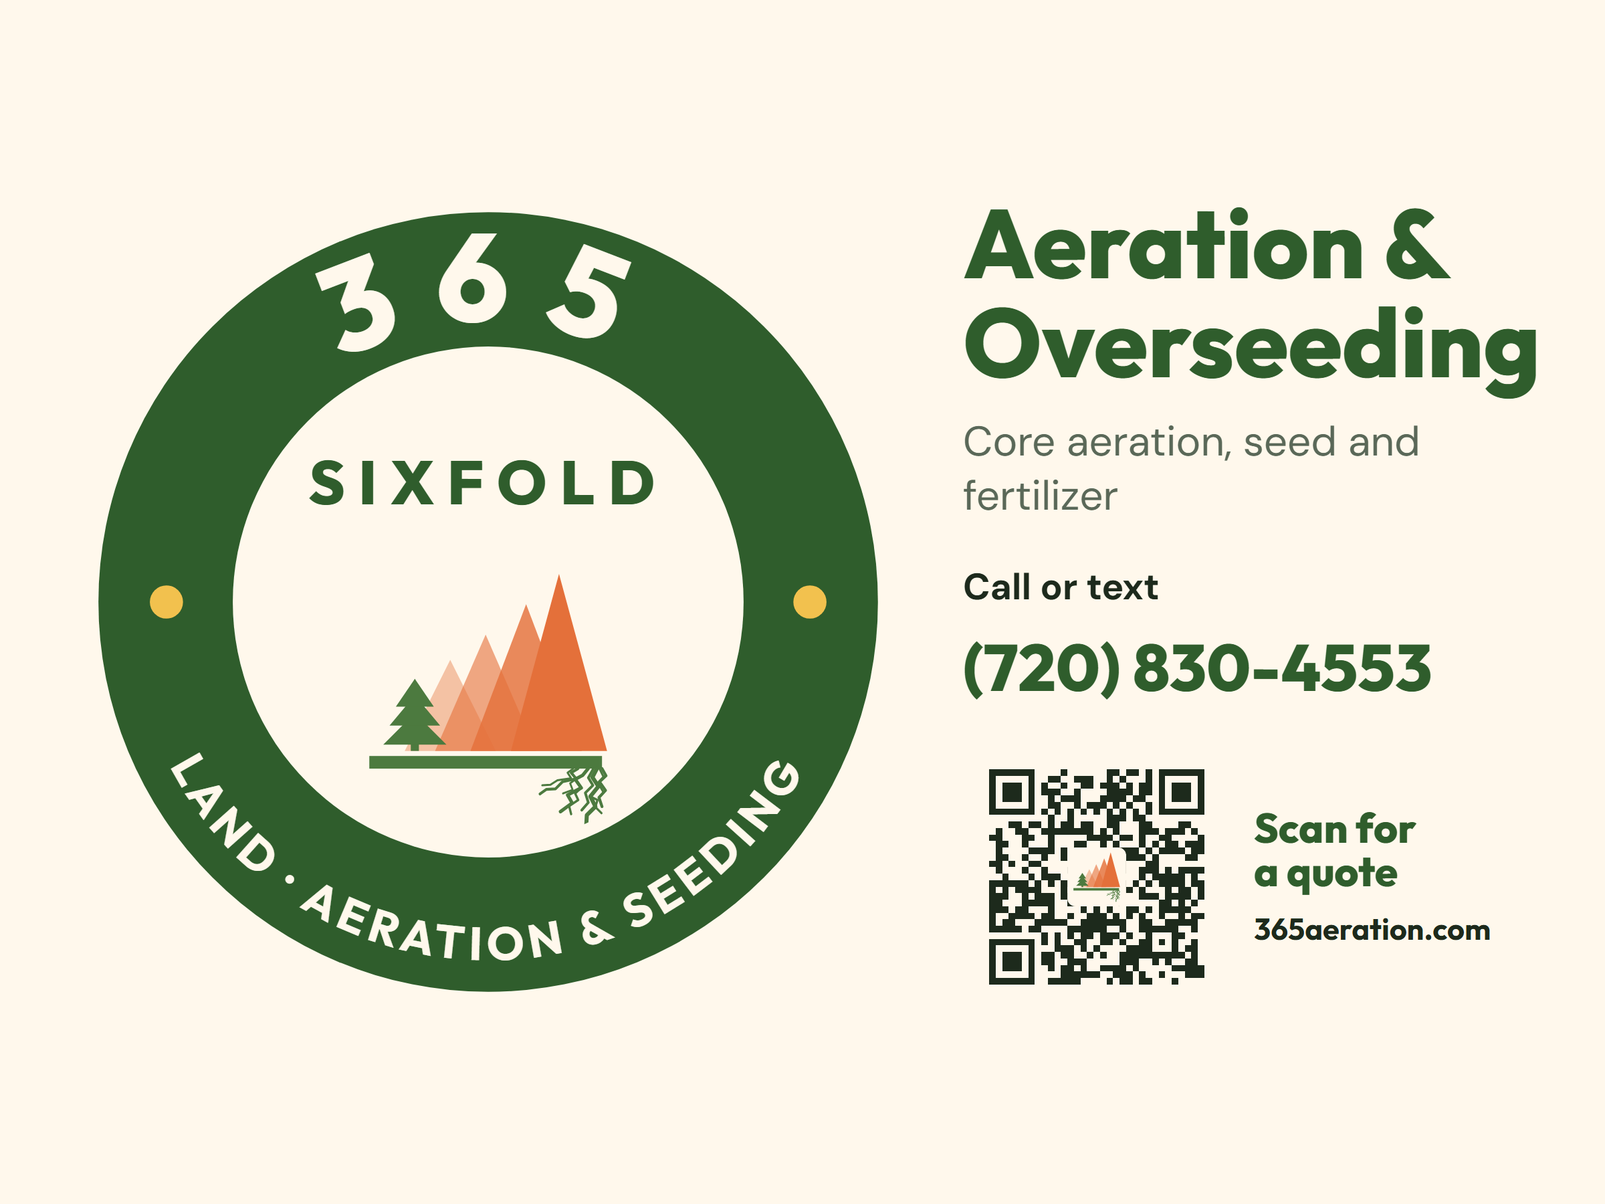
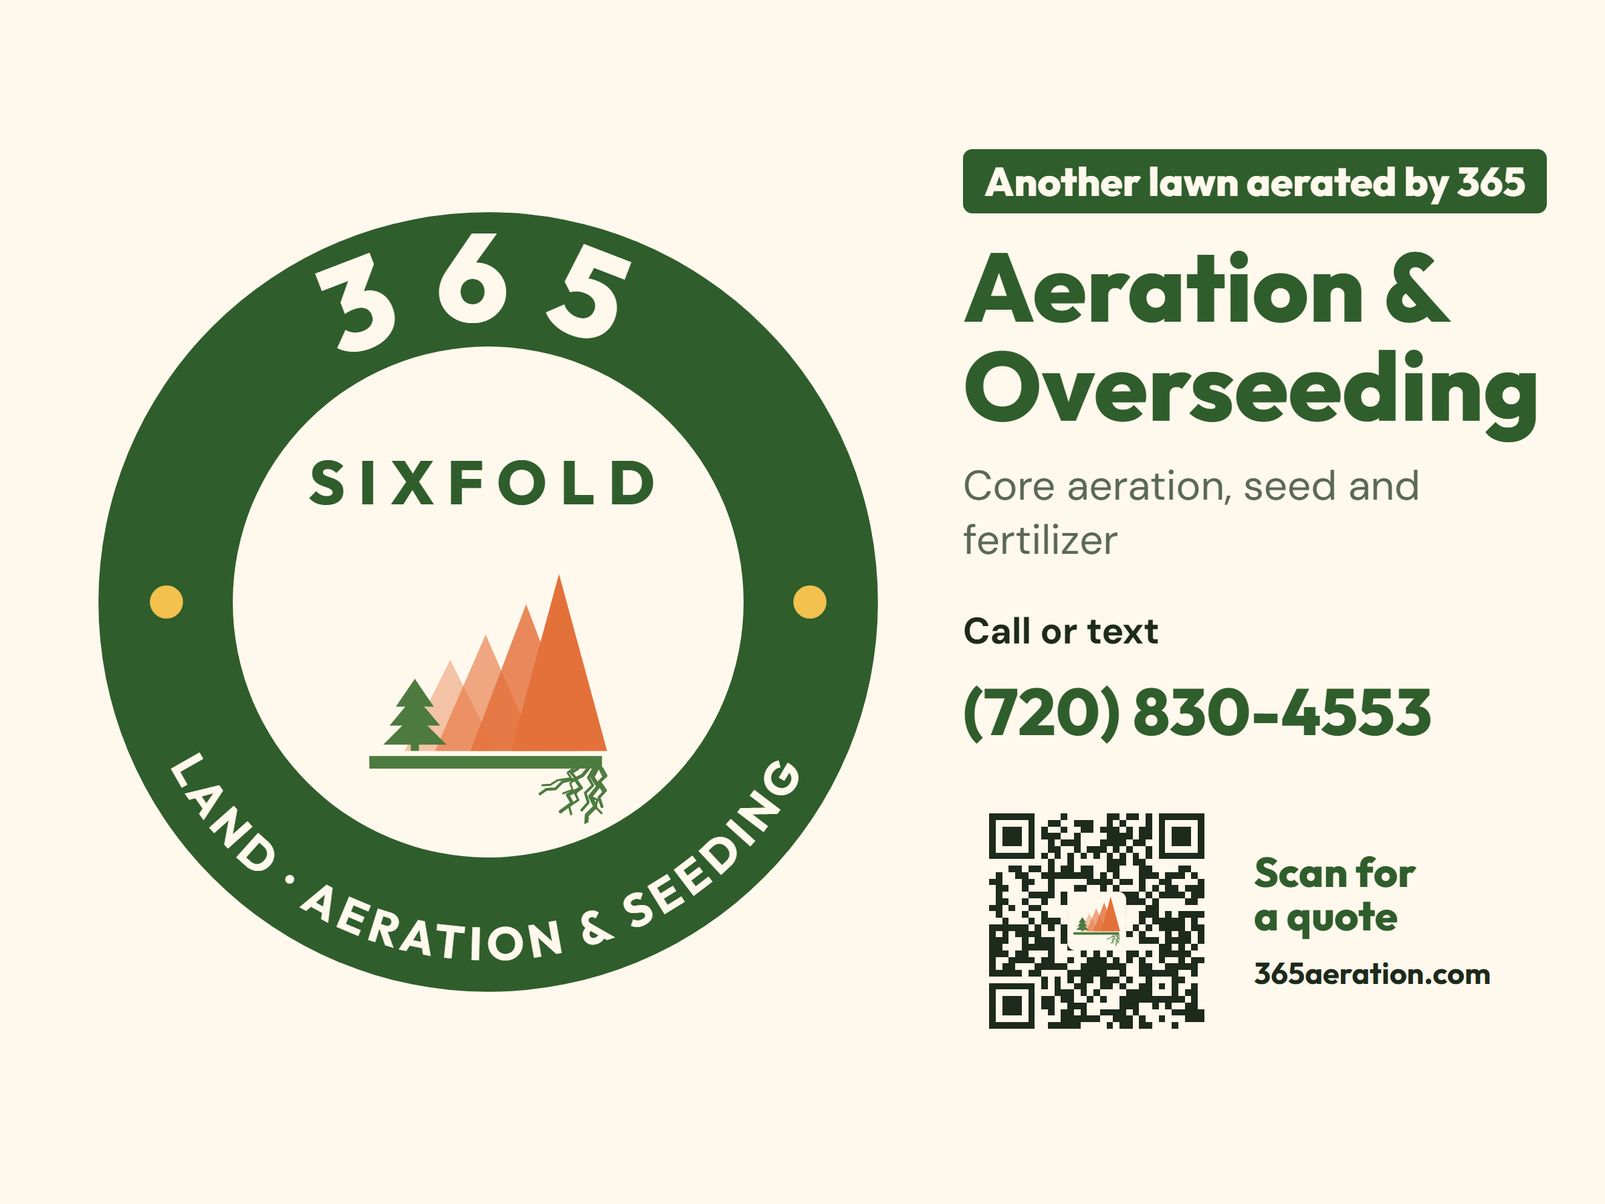
365 site footer: Facebook, Instagram and Google reviews links (Matthew 28 Oct: 'Lets go ahead and add the social footer'); text labels, 44 px taps; LIVE on 365aeration.com and aeration365.com (backups, md5 match, cache flushed, plain and busted checked). Yard signs A-C as printed (in use in the fiel

Changed region(s): [[0.5938, 0.1244, 0.9688, 0.8711], [0.7812, 0.6844, 0.9375, 0.84]]

diff --git a/sixfold/aeration365-site/index.html b/sixfold/aeration365-site/index.html
@@ -148,6 +148,11 @@
   footer svg{width:70px;height:70px}
   footer b{color:#fff;font:700 19px 'Outfit',sans-serif}
   footer a{color:#fff}
+  /* where to find us (2026-10-28, Matthew: "add the social footer"): text labels, 44 px taps, icons drawn in the text colour */
+  footer .soc{order:3;display:flex;gap:6px 20px;flex-wrap:wrap;width:100%;padding-top:14px;border-top:1px solid rgba(255,255,255,.18)}
+  footer .soc a{display:inline-flex;align-items:center;gap:8px;min-height:44px;text-decoration:none;font-weight:500}
+  footer .soc a:hover,footer .soc a:focus-visible{text-decoration:underline}
+  footer .soc svg{width:22px;height:22px;fill:currentColor;flex:none}
 
   @media (max-width:900px){
     nav{display:none}
@@ -340,6 +345,11 @@
 
 <footer><div class="wrap">
   <div class="fb"><svg aria-hidden="true"><use href="#badge"/></svg><div><b>Sixfold 365</b><br>Land · Aeration &amp; Seeding</div></div>
+  <nav class="soc" aria-label="Sixfold 365 online">
+    <a href="https://www.facebook.com/1418675127985724" target="_blank" rel="noopener"><svg viewBox="0 0 24 24" aria-hidden="true"><path d="M13.5 22v-8h2.7l.4-3.2h-3.1V8.8c0-.9.3-1.5 1.6-1.5h1.7V4.4c-.3 0-1.3-.1-2.5-.1-2.5 0-4.2 1.5-4.2 4.3v2.3H7.4V14h2.7v8z"/></svg>Facebook</a>
+    <a href="https://www.instagram.com/365aeration/" target="_blank" rel="noopener"><svg viewBox="0 0 24 24" aria-hidden="true"><path d="M12 7.2a4.8 4.8 0 1 0 0 9.6 4.8 4.8 0 0 0 0-9.6zm0 7.9a3.1 3.1 0 1 1 0-6.2 3.1 3.1 0 0 1 0 6.2zM17.1 5.8a1.1 1.1 0 1 0 0 2.2 1.1 1.1 0 0 0 0-2.2zM12 3.6c2.7 0 3 0 4.1.1 2.8.1 4.1 1.4 4.2 4.2.1 1.1.1 1.4.1 4.1s0 3-.1 4.1c-.1 2.8-1.4 4.1-4.2 4.2-1.1.1-1.4.1-4.1.1s-3 0-4.1-.1C5 20.2 3.8 18.9 3.7 16.1 3.6 15 3.6 14.7 3.6 12s0-3 .1-4.1C3.8 5.1 5.1 3.8 7.9 3.7 9 3.6 9.3 3.6 12 3.6zM12 2C9.3 2 8.9 2 7.8 2.1 4 2.2 2.2 4 2.1 7.8 2 8.9 2 9.3 2 12s0 3.1.1 4.2C2.2 20 4 21.8 7.8 21.9c1.1.1 1.5.1 4.2.1s3.1 0 4.2-.1c3.8-.1 5.6-1.9 5.7-5.7.1-1.1.1-1.5.1-4.2s0-3.1-.1-4.2C21.8 4 20 2.2 16.2 2.1 15.1 2 14.7 2 12 2z"/></svg>Instagram</a>
+    <a href="https://g.page/r/CdxyzSzq9tvEEBM" target="_blank" rel="noopener"><svg viewBox="0 0 24 24" aria-hidden="true"><path d="M12 2.5l2.9 6 6.6.9-4.8 4.6 1.2 6.5L12 17.4l-5.9 3.1 1.2-6.5-4.8-4.6 6.6-.9z"/></svg>Google reviews</a>
+  </nav>
   <div><a href="tel:+17208304553">(720) 830-4553</a> · <a href="mailto:contact@365aeration.com">contact@365aeration.com</a><br><span style="font-size:13px">© <span id="yr">2026</span> Sixfold 365 · Not tax or insurance advice: confirm your own position with your accountant and your carrier.</span></div>
 </div></footer>
 

diff --git a/sixfold/brand/combined-365-2026-10/print/yard-sign-a.html b/sixfold/brand/combined-365-2026-10/print/yard-sign-a.html
@@ -36,7 +36,8 @@
   <text font-family="Outfit, 'DM Sans', sans-serif" font-weight="700" font-size="56" letter-spacing="7" fill="#FFF8EC"><textPath href="#bot-au1" startOffset="50%" text-anchor="middle">LAND · AERATION &amp; SEEDING</textPath></text>
 </svg></div>
   <div style="flex:1;display:flex;flex-direction:column;gap:35px">
-    <div class="o" style="font-weight:800;font-size:145px;line-height:1.02;color:#2F5D2C">Aeration &amp;<br>Overseeding</div>
+    <div class="o" style="align-self:flex-start;font-weight:800;font-size:60px;line-height:1;padding:18px 32px;border-radius:14.000000000000002px;background:#2F5D2C;color:#FFF8EC;white-space:nowrap">Another lawn aerated by 365</div>   <!-- 2026-10-18, Matthew: say why the sign is in this yard -->
+    <div class="o" style="font-weight:800;font-size:145px;line-height:1.02;color:#2F5D2C;white-space:nowrap">Aeration &amp;<br>Overseeding</div>
     <div style="font-size:62px;color:#5a6858">Core aeration, seed and fertilizer</div>
     <div style="margin-top:25px;font-size:55.00000000000001px;font-weight:700">Call or text</div>
     <div class="o" style="font-weight:800;font-size:98px;line-height:1;color:#2F5D2C;white-space:nowrap">(720) 830-4553</div>

diff --git a/sixfold/brand/combined-365-2026-10/print/yard-sign-b.html b/sixfold/brand/combined-365-2026-10/print/yard-sign-b.html
@@ -36,7 +36,8 @@
   <text font-family="Outfit, 'DM Sans', sans-serif" font-weight="700" font-size="56" letter-spacing="7" fill="#E4703A"><textPath href="#bot-bu5" startOffset="50%" text-anchor="middle">LAND · AERATION &amp; SEEDING</textPath></text>
 </svg></div>
   <div style="flex:1;display:flex;flex-direction:column;gap:35px">
-    <div class="o" style="font-weight:800;font-size:145px;line-height:1.02;color:#E4703A">Aeration &amp;<br>Overseeding</div>
+    <div class="o" style="align-self:flex-start;font-weight:800;font-size:60px;line-height:1;padding:18px 32px;border-radius:14.000000000000002px;background:#E4703A;color:#0E1512;white-space:nowrap">Another lawn aerated by 365</div>   <!-- 2026-10-18, Matthew: say why the sign is in this yard -->
+    <div class="o" style="font-weight:800;font-size:145px;line-height:1.02;color:#E4703A;white-space:nowrap">Aeration &amp;<br>Overseeding</div>
     <div style="font-size:62px;color:#a9b3a7">Core aeration, seed and fertilizer</div>
     <div style="margin-top:25px;font-size:55.00000000000001px;font-weight:700">Call or text</div>
     <div class="o" style="font-weight:800;font-size:98px;line-height:1;color:#E4703A;white-space:nowrap">(720) 830-4553</div>

diff --git a/sixfold/brand/combined-365-2026-10/print/yard-sign-c.html b/sixfold/brand/combined-365-2026-10/print/yard-sign-c.html
@@ -36,7 +36,8 @@
   <text font-family="Outfit, 'DM Sans', sans-serif" font-weight="700" font-size="56" letter-spacing="7" fill="#2F5D2C"><textPath href="#bot-cu9" startOffset="50%" text-anchor="middle">LAND · AERATION &amp; SEEDING</textPath></text>
 </svg></div>
   <div style="flex:1;display:flex;flex-direction:column;gap:35px">
-    <div class="o" style="font-weight:800;font-size:145px;line-height:1.02;color:#2F5D2C">Aeration &amp;<br>Overseeding</div>
+    <div class="o" style="align-self:flex-start;font-weight:800;font-size:60px;line-height:1;padding:18px 32px;border-radius:14.000000000000002px;background:#2F5D2C;color:#EDE7DC;white-space:nowrap">Another lawn aerated by 365</div>   <!-- 2026-10-18, Matthew: say why the sign is in this yard -->
+    <div class="o" style="font-weight:800;font-size:145px;line-height:1.02;color:#2F5D2C;white-space:nowrap">Aeration &amp;<br>Overseeding</div>
     <div style="font-size:62px;color:#5a6858">Core aeration, seed and fertilizer</div>
     <div style="margin-top:25px;font-size:55.00000000000001px;font-weight:700">Call or text</div>
     <div class="o" style="font-weight:800;font-size:98px;line-height:1;color:#E4703A;white-space:nowrap">(720) 830-4553</div>

diff --git a/TASKS.md b/TASKS.md
@@ -836,10 +836,10 @@ possible, and right now nobody could list those accounts from memory. That's X-1
 - [ ] **SX-64 — 365 QR link pages: build BEFORE the print is handed out (16 Oct).** Matthew: "before i give any of it out we can build out each form". The printed codes go to 365aeration.com/card, /yard, /truck, /car (live since 16 Oct: `api/go.php` forwards to the homepage `?from=<piece>` and counts each scan, time + piece only, in `~/www/aeration365.com/scan-log/scans.csv`, outside public_html). To do: a Linktree-style page per address (quote button on top and biggest, then call, text, Facebook; reviews only once a review profile exists), the piece carried into the lead so Jen's Pipeline shows "from: truck" etc. /sign is the agreement page, never reuse it. Print files: sixfold/brand/combined-365-2026-10/build-print.mjs. **2026-10-19: the four link pages are LIVE** (sixfold/aeration365-site/api/go.php): quote, call, text, website; scans counted; web leads keep qr: card|yard|truck|car. **Still to do:** the Facebook page link and, once it exists, a Google review link (both go in  at the top of go.php; their buttons appear by themselves), and whether Jen's Pipeline should show "from: business card" on a lead (her view, so Matthew's call).
 - [x] **SX-65 — Crew quick quote + Send to office — DONE 21 Oct (live).** Christian and Bria have "Quick quote" (Accounts button on crew accounts): price a lawn on the spot, a yes goes to the office as quoted + said yes in person. Aerate, seed & feed only (aerate-only has no price rule).
 - [x] **SX-66 — Recall, the 3rd-call notice, Couldn't reach — DONE 21 Oct (live).** Leads that come back (form, Facebook, Messenger, crew yes, added again, ClickUp change) return by themselves. Quoted, ready to book shows five at a time.
-- [ ] **SX-71 — Merge everything to Sixfold 365 (Matthew 23 Oct: "get rid of the sixfold stuff, get rid of the aeration 365 stuff and just transition entirely to the new branding").** Decided 23 Oct: **one phone, (720) 830-4553 (Jen's: she handles intake)** everywhere online; **contact@365aeration.com is the public email**; **website form leads go to Matthew only: in the app (hidden from Jen) and by email to Contact@SixfoldColorado.com, his private inbox** (live 23 Oct, queued and sent by the 5-minute job; needs the SX-63 app password to actually send); Sixfold's extra pages (services, funding, guides) **held** for later, the homepage stays one simple page aimed at the form; social links go in the footer once the accounts are merged. Legal / trade-name items are not part of this list (Matthew). **Phase 1 (site) — LIVE 23 Oct** on 365aeration.com + aeration365.com (www too), both copies byte-identical to sixfold/aeration365-site/index.html + img/; backups ~/upload-backups/before-sixfold365-launch-*-20261023.tgz on the 365 account; form relay checked; Facebook re-scraped both addresses (new title + share picture). Was: the one-page merged design (`sixfold/site-merged-example/`) has the working form (same relay as the 365 site; service groups lawnall / land / multiple / question; way to reach them; how they heard; address optional; QR source) and is on a private preview at https://365aeration.com/s365-new-7571c6/ (noindex). The app accepts the new service groups (live). The agreement, quote and QR pages were already Sixfold 365 since 21 Oct; the QR page's wording updated (live, both copies). **Open before launch:** a Sixfold 365 share image; the SX-63 app password so the lead emails send. (Website leads stay Matthew-only: decided 23 Oct.) Then launch on both copies (365aeration.com + aeration365.com) on his go. **Phase 2 — DONE 23 Oct except Search Console:** aeration365.com already forwarded everything to 365aeration.com (since 14 Oct). sixfoldcolorado.com now forwards every page (301) to the matching section (aeration #lawn, landscaping/clearing #land, fire/who-pays/wildfire-guide #fire, contact #quote, rest to the homepage); the old field-app addresses go to traverseplatforms.com; api/ and .well-known left alone (sixfold/site/.htaccess, server backup .htaccess.pre-365-20261023). **Search Console DONE 23 Oct** (Contact@SixfoldColorado.com account): both properties verified (365aeration.com by HTML file google68855123f21a06fc.html, keep it; sixfoldcolorado.com auto-verified via Workspace) and the change of address sixfoldcolorado.com → 365aeration.com validated by Matthew. **Phase 2 complete.** **Phase 3 — DONE 23 Oct:** app already all Sixfold 365 (company + a365 name); agreement/quote pages carry the badge; Square location renamed + new logos (statement name: check on the next card payment, expect SQ *SIXFOLD 365). **The app's customer emails (signed copy, aftercare) stay MANUAL** — Matthew: an app password needs 2-step on the account behind contact@365aeration.com, which would disrupt Jen's access; don't push it. Still-used templates rebranded (65589be); outdated ones archived to sixfold/_archive-2026-10-23-rebrand/ with a README; signed documents untouched. Team share rebuilt: Matthew drags sixfold/team-share/files/* into the Drive folder. **Phase 4:** Google Business Profile (rename the kept one, close the other), Facebook rename then merge (between ad runs), Instagram, Nextdoor, Yelp, Linktree, footer socials, signs/magnets/cards.
+- [ ] **SX-71 — Merge everything to Sixfold 365 (Matthew 23 Oct: "get rid of the sixfold stuff, get rid of the aeration 365 stuff and just transition entirely to the new branding").** Decided 23 Oct: **one phone, (720) 830-4553 (Jen's: she handles intake)** everywhere online; **contact@365aeration.com is the public email**; **website form leads go to Matthew only: in the app (hidden from Jen) and by email to Contact@SixfoldColorado.com, his private inbox** (live 23 Oct, queued and sent by the 5-minute job; needs the SX-63 app password to actually send); Sixfold's extra pages (services, funding, guides) **held** for later, the homepage stays one simple page aimed at the form; social links go in the footer once the accounts are merged. Legal / trade-name items are not part of this list (Matthew). **Phase 1 (site) — LIVE 23 Oct** on 365aeration.com + aeration365.com (www too), both copies byte-identical to sixfold/aeration365-site/index.html + img/; backups ~/upload-backups/before-sixfold365-launch-*-20261023.tgz on the 365 account; form relay checked; Facebook re-scraped both addresses (new title + share picture). Was: the one-page merged design (`sixfold/site-merged-example/`) has the working form (same relay as the 365 site; service groups lawnall / land / multiple / question; way to reach them; how they heard; address optional; QR source) and is on a private preview at https://365aeration.com/s365-new-7571c6/ (noindex). The app accepts the new service groups (live). The agreement, quote and QR pages were already Sixfold 365 since 21 Oct; the QR page's wording updated (live, both copies). **Open before launch:** a Sixfold 365 share image; the SX-63 app password so the lead emails send. (Website leads stay Matthew-only: decided 23 Oct.) Then launch on both copies (365aeration.com + aeration365.com) on his go. **Phase 2 — DONE 23 Oct except Search Console:** aeration365.com already forwarded everything to 365aeration.com (since 14 Oct). sixfoldcolorado.com now forwards every page (301) to the matching section (aeration #lawn, landscaping/clearing #land, fire/who-pays/wildfire-guide #fire, contact #quote, rest to the homepage); the old field-app addresses go to traverseplatforms.com; api/ and .well-known left alone (sixfold/site/.htaccess, server backup .htaccess.pre-365-20261023). **Search Console DONE 23 Oct** (Contact@SixfoldColorado.com account): both properties verified (365aeration.com by HTML file google68855123f21a06fc.html, keep it; sixfoldcolorado.com auto-verified via Workspace) and the change of address sixfoldcolorado.com → 365aeration.com validated by Matthew. **Phase 2 complete.** **Phase 3 — DONE 23 Oct:** app already all Sixfold 365 (company + a365 name); agreement/quote pages carry the badge; Square location renamed + new logos (statement name: check on the next card payment, expect SQ *SIXFOLD 365). **The app's customer emails (signed copy, aftercare) stay MANUAL** — Matthew: an app password needs 2-step on the account behind contact@365aeration.com, which would disrupt Jen's access; don't push it. Still-used templates rebranded (65589be); outdated ones archived to sixfold/_archive-2026-10-23-rebrand/ with a README; signed documents untouched. Team share rebuilt: Matthew drags sixfold/team-share/files/* into the Drive folder. **Phase 4:** Google Business Profile (rename the kept one, close the other), Facebook rename then merge (between ad runs), Instagram, Nextdoor, Yelp, Linktree, footer socials, signs/magnets/cards. **28 Oct (Matthew):** Google profile converted to Sixfold 365 (he believes; he wants me connected to monitor it, see below); Facebook merge did NOT happen (errored 23 Oct, old Sixfold Colorado page deleted; the Sixfold 365 page, id 1418675127985724, has no username yet); Nextdoor merged ✅; yard signs printed and in use in the field ✅; business cards ✅; **magnets stay open**; **footer socials LIVE 28 Oct** (Facebook, Instagram @365aeration, Google reviews; 44 px taps; both copies, md5 ca79b0ab…, cache flushed, plain + busted checked); Nextdoor link to add when Matthew sends the page address. Still open: magnets, Yelp, Linktree, a Facebook username, Nextdoor footer link, Google profile monitoring.
 - [x] **SX-72 — Matthew: check who has ever signed in to Contact@SixfoldColorado.com (23 Oct). ANSWERED same day: only Matthew has access. It stays, as HIS private inbox for website leads (the form emails it; Jen never sees it). Not scrapped.** He thinks Brad and Brandon never have; if so they come off the plan and the address can go. Before scrapping it: it is the Sixfold Google Workspace **super admin** account and the sender of the morning email and the Sixfold site form's copies (SX-63), so those move to the 365 mailbox first.
 - [ ] **SX-73 — Matthew: update your email signature to Sixfold 365 (23 Oct).** In Gmail for M.Sharpe@SixfoldColorado.com (the address on your 365 card): gear → See all settings → General → Signature → name Sixfold 365 (not Sixfold Colorado), website 365aeration.com, phone (303) 596-9515 → Save Changes. Claude can make a matching signature with the badge to paste in if wanted.
-- [ ] **SX-67 — Square: three items for Matthew (found 21 Oct night check).** **23 Oct: Brian paid in full (00, both halves by Square; Matthew confirmed), flag set to Leave it. The Six Fold Colorado Square location is no longer used (Matthew: "we arent using it anymore now that brian is done"), so no confirm screen for it.** **22 Oct, Matthew:** Kara is paid in full; Brian still owes $200 (the app agrees); the $0 was a deposit hold. All three set to "Leave it" in the night check (square-check-ok.json, backup in ~/upload-backups). **Open:** Kyle's first deposit link (Tue 27, $217, order still an unpaid draft in Square) should be deleted because the second link is paid. My delete was stopped by the permission check, so Matthew deletes it in Square or allows it. **22 Oct: Matthew is asking Jen about it first; wait for his word, don't remind.** Kara Rosenstauch: Square kept $1,100, no job in the app (the two $550 invoices); Brian Skelton: his $200 deposit is recorded as "other", not Square, and $200 still shows owed on a done job; a $0.00 charge on 19 Oct (likely a card saved). Nothing changed without his go. Kyle Allen has two Square deposit links (day changed); one paid, the older one may still be open.
+- [x] **SX-67 — Square: three items for Matthew (found 21 Oct night check).** **✅ CLOSED 28 Oct: Kyle Allen's first, unpaid $217 deposit link deleted on Matthew's go ("you are allowed to delete the kyle allens unpaid draft"): checked first that its order was an unpaid DRAFT and the second link's order holds his $217 payment; after the delete the link is gone (404) and the draft order is CANCELED; the paid one untouched.** **23 Oct: Brian paid in full (00, both halves by Square; Matthew confirmed), flag set to Leave it. The Six Fold Colorado Square location is no longer used (Matthew: "we arent using it anymore now that brian is done"), so no confirm screen for it.** **22 Oct, Matthew:** Kara is paid in full; Brian still owes $200 (the app agrees); the $0 was a deposit hold. All three set to "Leave it" in the night check (square-check-ok.json, backup in ~/upload-backups). **Open:** Kyle's first deposit link (Tue 27, $217, order still an unpaid draft in Square) should be deleted because the second link is paid. My delete was stopped by the permission check, so Matthew deletes it in Square or allows it. **22 Oct: Matthew is asking Jen about it first; wait for his word, don't remind.** Kara Rosenstauch: Square kept $1,100, no job in the app (the two $550 invoices); Brian Skelton: his $200 deposit is recorded as "other", not Square, and $200 still shows owed on a done job; a $0.00 charge on 19 Oct (likely a card saved). Nothing changed without his go. Kyle Allen has two Square deposit links (day changed); one paid, the older one may still be open.
 - [x] **SX-68 — Sixfold app → Sixfold 365 + the face lift (DONE 22 Oct) (Matthew 21 Oct: "do them all now, u have my permission for the complete overhaul").** Mock-ups: claude.ai/artifact/Ak9Yhajc2ZKzUmyTtakU1D. Sixfold first (name, Ridge mark, icon, forest/cream/ember, Outfit, bottom menu, customer quote page + signing form), then screen-by-screen layouts, then the five editions (TR-29). **21 Oct ~11:35 PM: the first stage is LIVE** on Sixfold: the new name, mark, icons, colours, headings, chip stages, the phone menu bar, and the 365 quote and signing pages on both 365 copies (commit 589fdab; live company.json backup company-before-s365-20261022-053244.json). **22 Oct: stage 2 LIVE:** the lead card as in the mock-up (big name, Call / Text / Email buttons, details as tiles, Reached out? as a grid), the Jobs table in the new colours (its layout is Jen's and stays), a side menu on computers 1280px and wider (top bar from 1100 to 1279). The quote builder keeps its layout (Jen's Quick quote). TR-29 done the same day.
 - [x] **SX-70 — Matthew's 22 Oct list — DONE 22 Oct (live).** Turned-off duplicates removed (Brad McPherson, Cai Silva, Christian Jensen, Nneka Smith: their old codes are free again; Will D kept, no active twin). Jobs and My schedule: This week + Pick a day. Remove from leads (Couldn't reach / Not interested / Spam or a duplicate; kept, never deleted). Customers: a job marked Done counts as logged and as the last visit (Randy now $468, 20 Oct). Results: leads from ads, Messenger, the websites and calls tied to their house and counted with the doors, plus a Where they came from table; 26 of 60 have no house on file yet (17 Facebook), shown on the page. Alerts already worked on computers; the wording now says device, not phone. Gas: EIA weekly Denver regular, checked at most once a day when a quote is priced.
 - [x] **SX-69 — Fable's clean-up of 21 Oct's code — DONE 21 Oct (night).** rounds.php tidy, Peak desk and .gitignore taken in, tested and live (319f7e0, cd039d5, 453ad57). Fable found the desktop tools row bug; it went back to 20 Oct (office lost Pipeline and quick quote, managers lost Leads) and is fixed in 589fdab. Report-only items left: houseFacts range has no v2 check (rounds.php lookup-house branch), ensureBookedCustomers replays everything on each poll, a setMe() helper for the four places S.me is set.
